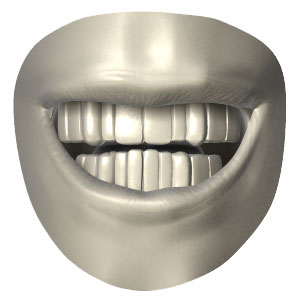
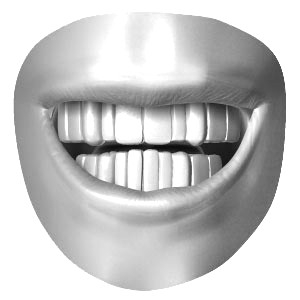
Adds new mouths

diff --git a/ffmpeg_create_video.py b/ffmpeg_create_video.py
@@ -87,7 +87,7 @@ def draw_mouth(mouth, character, x, y, width, height):
     rgb = cv2.merge((r,g,b))
     fit_image = cv2.multiply(numpy.float32(fit_image), rgb)
     fit_image = cv2.multiply(fit_image, inverse_fit_mask)
-    character[y0:y1,x0:x1] = numpy.uint8(mul + fit_image * 1.2)
+    character[y0:y1,x0:x1] = numpy.uint8(mul + fit_image)
 
 def fit_dimensions(img, fit_width, fit_height):
     image_height, image_width = img.shape[0:2]
